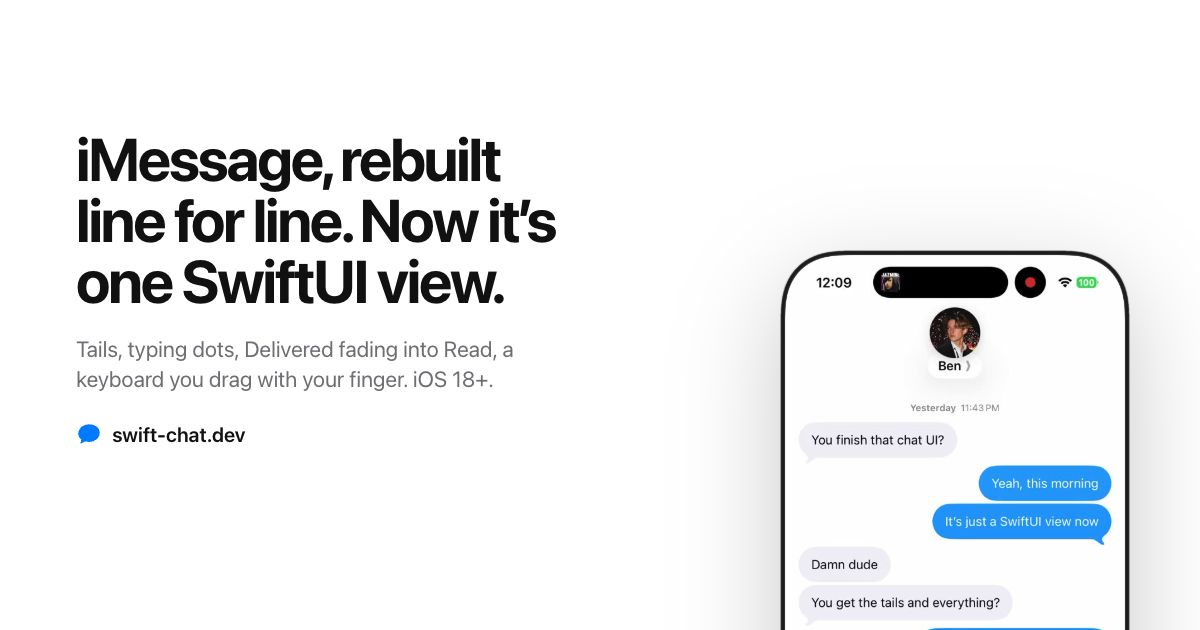
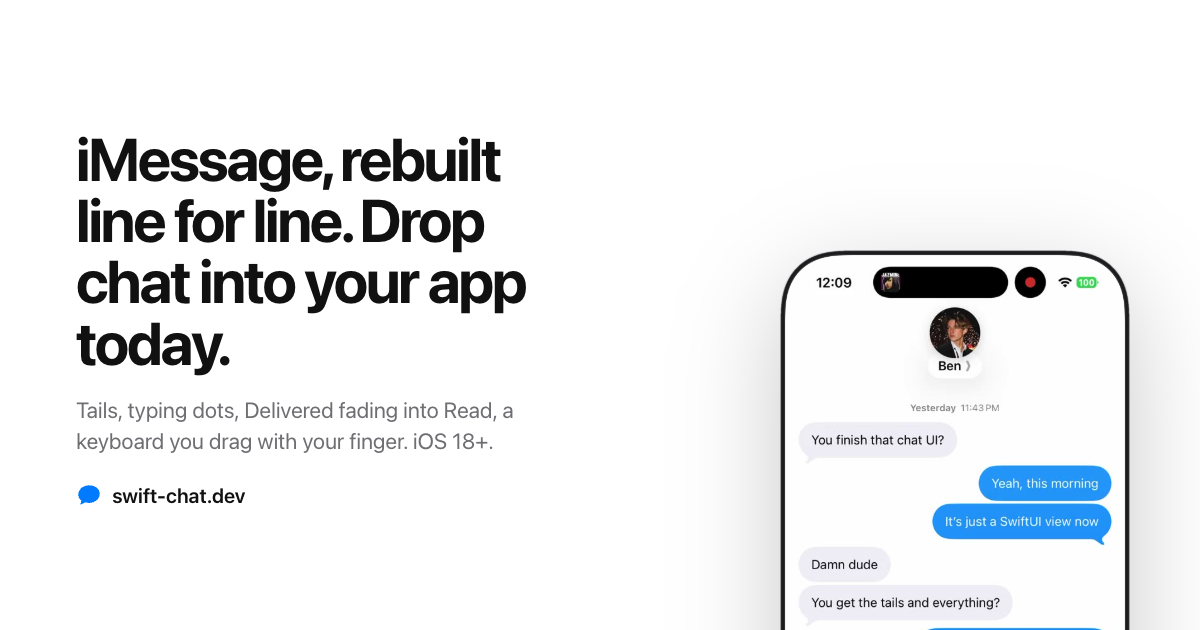
New headline

diff --git a/og.html b/og.html
@@ -14,7 +14,7 @@ p { margin: 22px 0 0; font-size: 22px; line-height: 1.4; color: #6e6e73; max-wid
 </style></head>
 <body><div class="card">
   <div>
-    <h1>iMessage, rebuilt line for line. Now it’s one SwiftUI view.</h1>
+    <h1>iMessage, rebuilt line for line. Drop chat into your app today.</h1>
     <p>Tails, typing dots, Delivered fading into Read, a keyboard you drag with your finger. iOS 18+.</p>
     <div class="by"><svg viewBox="0 0 24 24" aria-hidden="true"><path fill="#007aff" d="M12 3C6.5 3 2 6.8 2 11.5c0 2.3 1.1 4.4 2.9 5.9L4 21l4.4-2.1c1.1.3 2.3.5 3.6.5 5.5 0 10-3.8 10-8.5S17.5 3 12 3z"/></svg>swift-chat.dev</div>
   </div>

diff --git a/index.html b/index.html
@@ -260,7 +260,7 @@ footer a:hover { color: var(--ink); }
 <main>
 <header class="hero">
   <div class="wrap">
-    <h1>iMessage, rebuilt line for line. Now it’s one SwiftUI view.</h1>
+    <h1>iMessage, rebuilt line for line. Drop chat into your app today.</h1>
     <p class="lede">Bubbles that only get a tail at the end of a run. Typing dots that breathe. “Delivered” fading into “Read.” A keyboard you drag down with your finger. A year of details, and you add it with one line.</p>
     <div class="install">
       <code>https://github.com/unionst/swift-chat.git</code>
